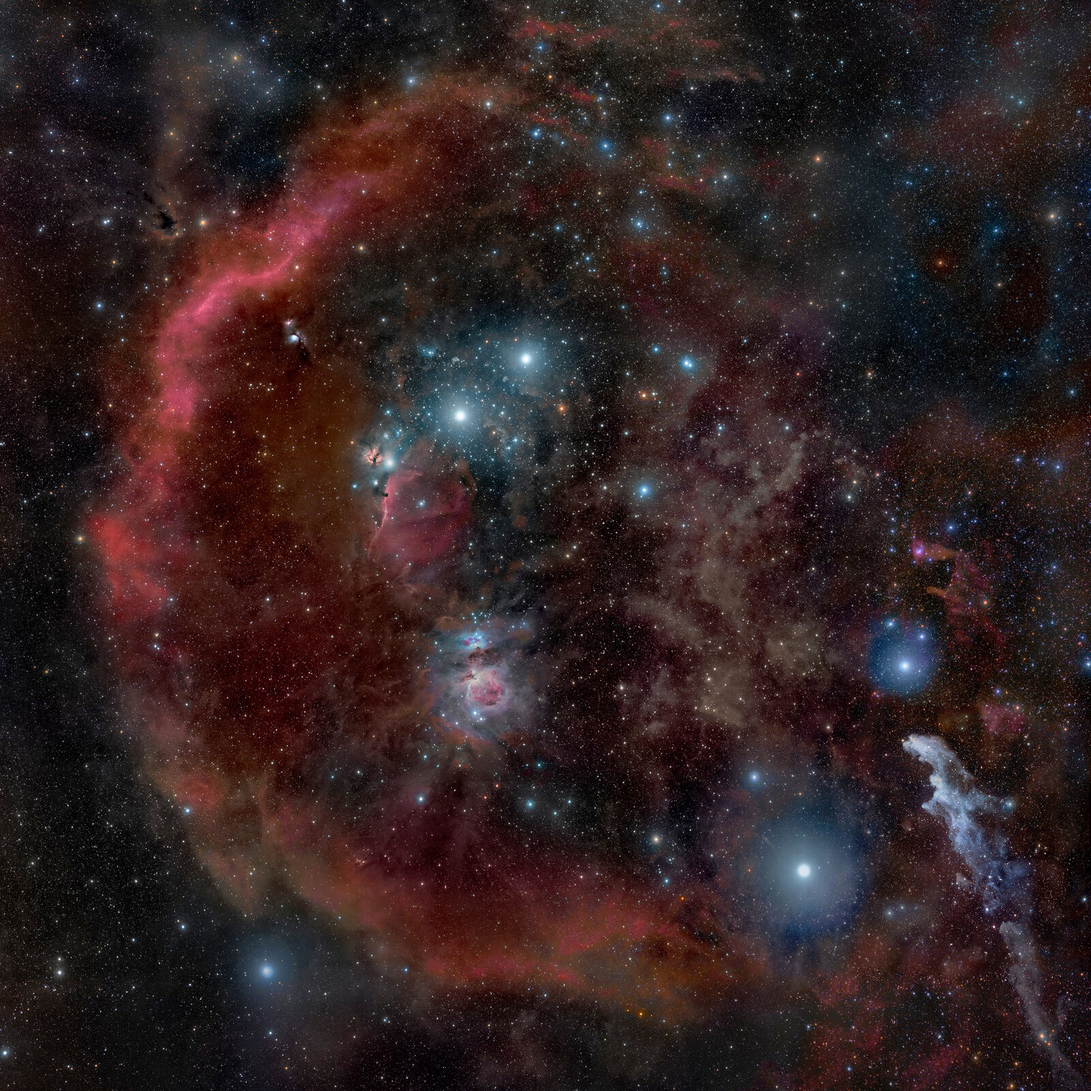
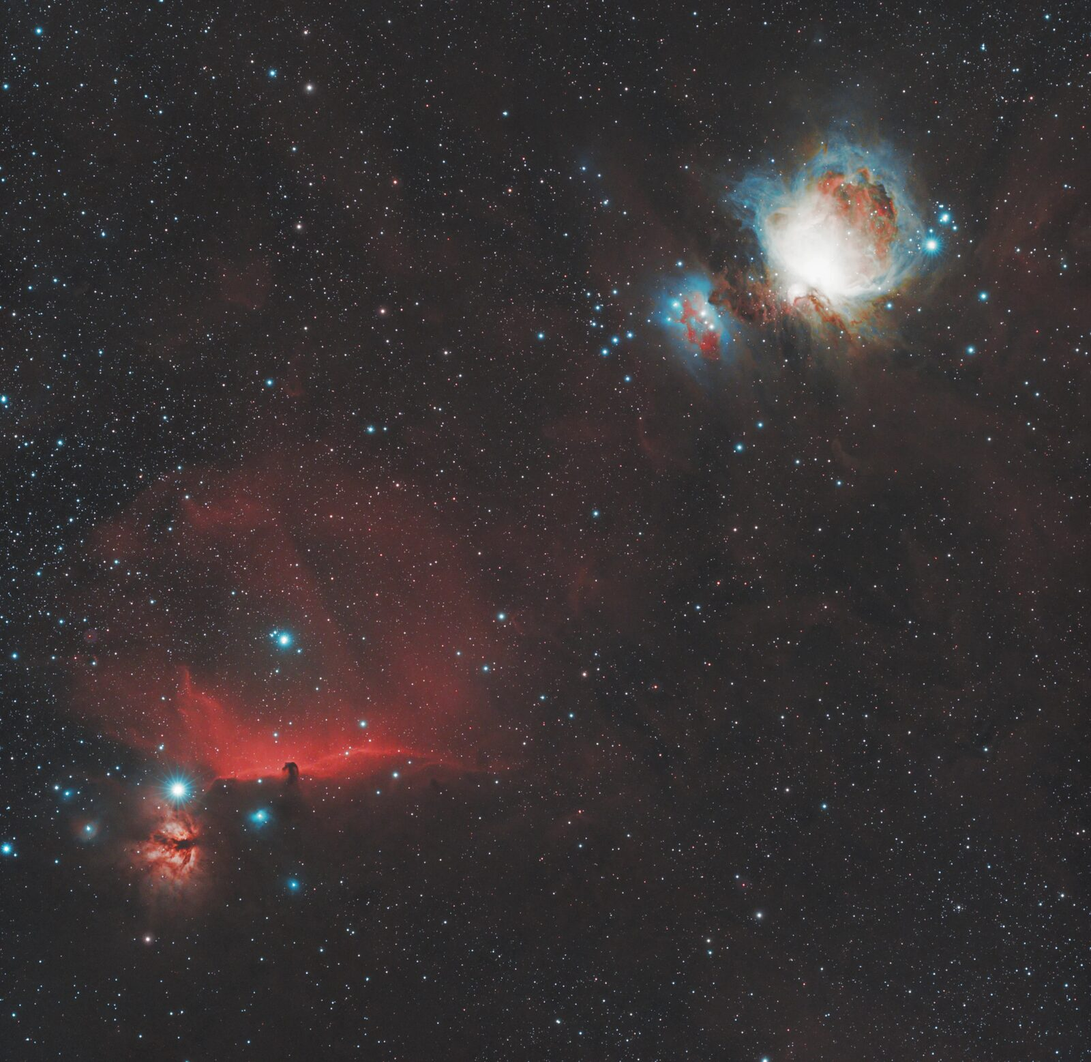
fix: images du groupe, 72ED partout, boîtiers détaillés dans le tableau
- carte Orion : image au Samyang 135 f/2 fournie, en place de la version Commons
- illustration Flamme / Tête de Cheval en tête de section
- phase 2 alignée sur la 72ED (~400 € neuf, ~300 € occasion, + aplanisseur)
- tableau budget : trois lignes boîtier (A6000, A7R II référence, A7R III)
  et note de report du total selon le boîtier retenu
- cadrage carré des cartes cibles

diff --git a/index.html b/index.html
@@ -1078,6 +1078,17 @@
         La config qui tient dans un sac à dos et sort des nébuleuses.
       </p>
 
+      <figure class="shot shot--wide reveal">
+        <img src="samples/orion-flamme-tete-cheval-detail.jpg"
+             alt="Nébuleuse de la Flamme et Tête de Cheval dans Orion, nuages de gaz rouges"
+             loading="lazy" width="1600" height="1109">
+        <figcaption>
+          La région d'Orion en détail — la Flamme et la Tête de Cheval.
+          <span class="goal">exemple — objectif visé</span>
+          <span class="credit">© Daniel Stern</span>
+        </figcaption>
+      </figure>
+
       <!-- ---- Bloc 1 : le matériel, une ligne par pièce ---- -->
       <p class="gear__label reveal">Le matériel</p>
       <ul class="cards reveal">
@@ -1085,7 +1096,8 @@
           <h3 class="card__title">Boîtier <span class="card__alt">Sony A7R II ou III</span></h3>
           <p>
             Plein format 42 Mpx. La III si l'autonomie compte, la II si le budget
-            serre — c'est le même capteur.
+            serre — c'est le même capteur. Et l'A6000 en APS-C si le budget serre
+            vraiment.
           </p>
         </li>
         <li class="card">
@@ -1098,7 +1110,7 @@
           <h3 class="card__title">Monture <span class="card__alt">iOptron SkyHunter</span></h3>
           <p>
             GoTo et mise en station électronique iPolar, charge 5 kg, tête 1,3 kg.
-            Accepte une lunette 80ED en évolution.
+            Accepte la lunette 72ED en évolution.
           </p>
         </li>
         <li class="card">
@@ -1145,9 +1157,19 @@
           </thead>
           <tbody>
             <tr>
-              <th scope="row">Sony A7R II / III</th>
+              <th scope="row">Boîtier — Sony A6000 <span class="card__alt">APS-C, budget serré</span></th>
+              <td data-label="Neuf">~500 €</td>
+              <td data-label="Occasion">~280 €</td>
+            </tr>
+            <tr>
+              <th scope="row">Boîtier — Sony A7R II <span class="card__alt">la référence ici</span></th>
               <td data-label="Neuf">quasi plus vendu neuf</td>
-              <td data-label="Occasion">~750-800 € (II) · ~1000-1300 € (III)</td>
+              <td data-label="Occasion">~750-800 €</td>
+            </tr>
+            <tr>
+              <th scope="row">Boîtier — Sony A7R III <span class="card__alt">même capteur, meilleure autonomie</span></th>
+              <td data-label="Neuf">~1700 €</td>
+              <td data-label="Occasion">~1000-1300 €</td>
             </tr>
             <tr>
               <th scope="row">Samyang 135 mm f/2</th>
@@ -1184,15 +1206,17 @@
       </div>
 
       <p class="section__note reveal">
-        Le boîtier est compté en occasion dans les deux colonnes : l'A7R II comme
-        la III ne se trouvent plus neufs. Les bagues, batteries et cartes se
-        rachètent neuves dans les deux cas.
+        Total calculé sur l'A7R II, et compté en occasion dans les deux colonnes
+        puisqu'elle ne se trouve plus neuve. En A6000 on retire ~500 €, en A7R III
+        on ajoute ~250 à 550 €. Les bagues, batteries et cartes se rachètent
+        neuves dans les deux cas.
       </p>
 
       <aside class="keybox reveal">
         <p class="keybox__label">Phase 2 — la lunette</p>
         <p class="keybox__lead">
-          Sky-Watcher 80ED (~550 € neuf / ~400 € occasion) + aplanisseur (~150 €).
+          Sky-Watcher 72ED (~400 € neuf / ~300 € occasion) + aplanisseur (~150 €),
+          soit ~550 € neuf.
         </p>
         <p>
           Elle se pose sur la même SkyHunter, sans rien racheter d'autre.
@@ -1229,14 +1253,10 @@
           <figure class="shot">
             <img src="samples/orion-m42-flamme-tete-cheval.jpg"
                  alt="Région d'Orion M42 Flamme Tête de Cheval au Samyang 135mm f/2"
-                 loading="lazy" width="1600" height="1600">
+                 loading="lazy" width="1600" height="1557">
             <figcaption>
               Orion — objectif visé au 135 mm
               <span class="goal">exemple — objectif visé</span>
-              <span class="credit">
-                © Rogelio Bernal Andreo — <a href="https://commons.wikimedia.org/wiki/File:Orion_Clouds_around_Orion_Nebula.jpg">Wikimedia Commons</a>,
-                CC BY-SA 3.0
-              </span>
             </figcaption>
           </figure>
           <h3 class="card__title">Orion (M42 + Flamme + Tête de Cheval) <span class="card__alt">cible d'hiver</span></h3>

diff --git a/styles.css b/styles.css
@@ -482,10 +482,13 @@ a:hover { color: var(--accent-soft); text-decoration-color: var(--accent); }
   grid-template-columns: repeat(auto-fit, minmax(21rem, 1fr));
 }
 .cards--targets .shot img {
-  aspect-ratio: 4 / 3;
+  aspect-ratio: 1 / 1;
   object-fit: cover;
 }
 .cards--targets .card__title { margin-top: 1.4rem; }
+
+/* Précision de variante dans une cellule de tableau : sur sa propre ligne */
+.table th .card__alt { display: block; margin-top: 0.15rem; }
 
 /* Ligne de réglages d'une cible : diaph, ISO, pose, cumul */
 .recipe {
